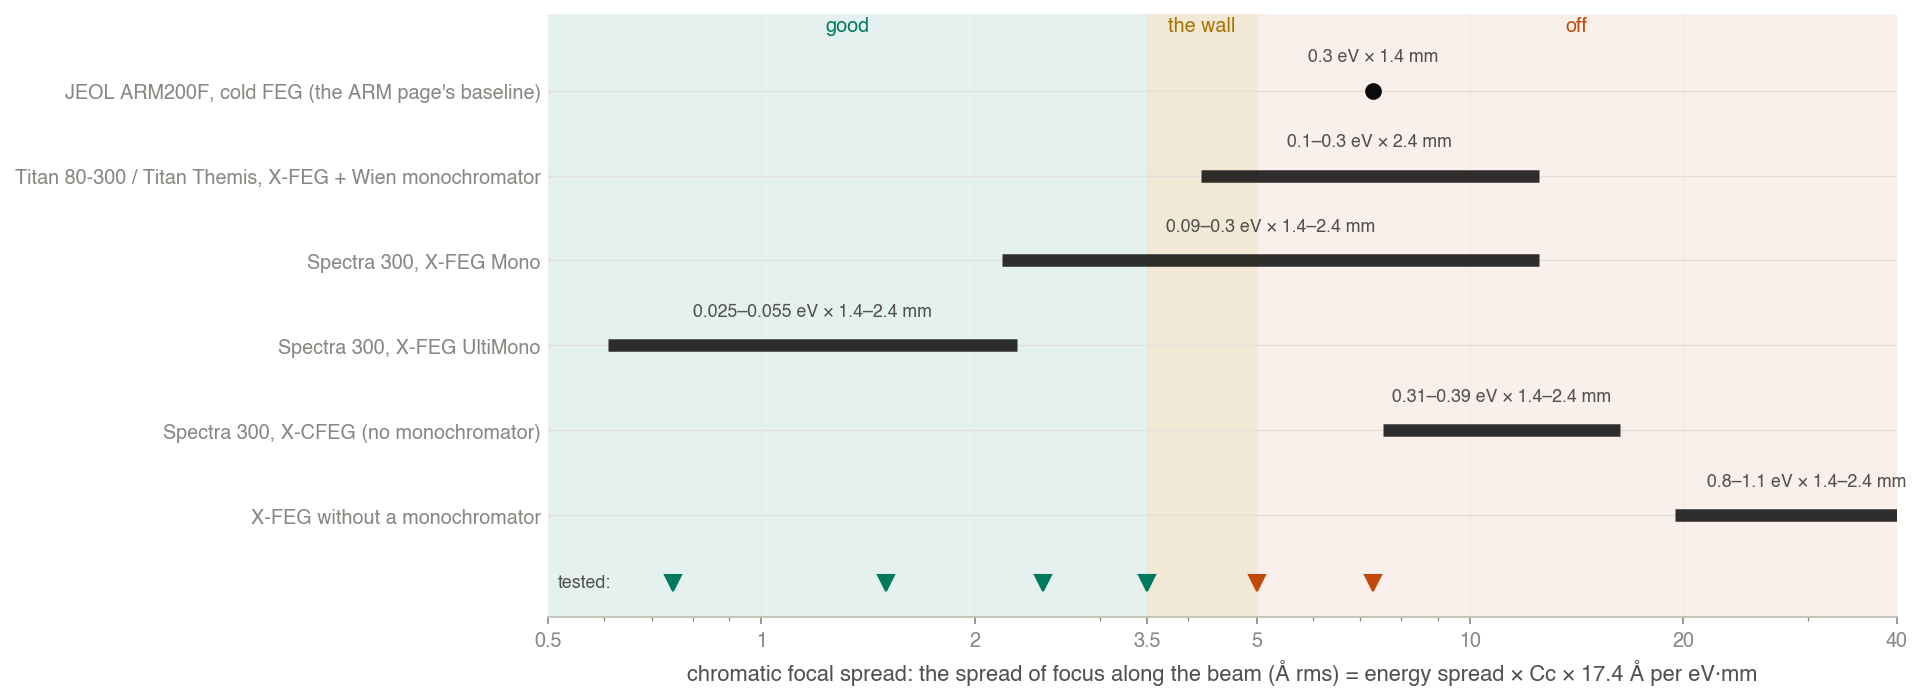
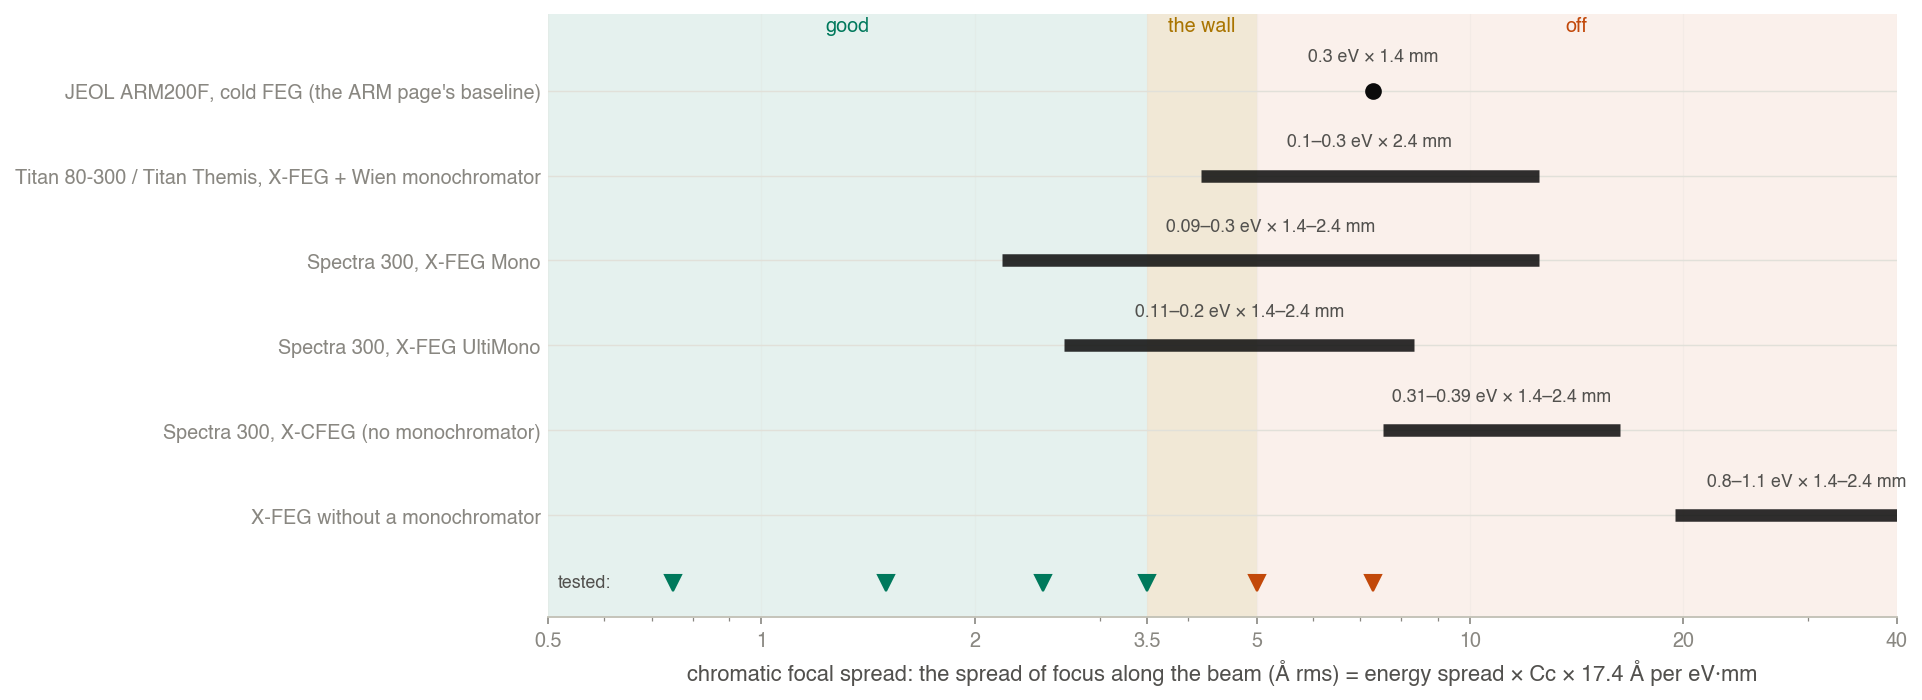
Coherence Wall page v14: Mono vs UltiMono, sites sorted by gun
The how-common table now splits the Spectra 300 by gun (Mono, UltiMono,
monochromated but unstated, X-CFEG or unstated) beside the ARM200F; the Titan is
dropped. The UltiMono's tens of meV are quoted at 30-60 kV; at 300 kV its quoted
figures (110 meV Stanford, < 0.2 eV Michigan) match the Mono's 90 meV, so the page
now treats a monochromated Spectra 300 at ~0.1 eV, either gun, as the target.

Changed region(s): [[0.3122, 0.48, 0.7492, 0.51], [0.3746, 0.42, 0.4995, 0.45], [0.5931, 0.42, 0.6868, 0.45]]

diff --git a/aberration_experiment/page/mono_2026-10-12.html b/aberration_experiment/page/mono_2026-10-12.html
@@ -87,7 +87,9 @@
           monochromator brings the energy spread to about 90 meV in use (<a href="https://www.wems.msm.cam.ac.uk/node/56" target="_blank" rel="noopener">as quoted by Cambridge</a>), about 2.5 Å of chromatic focal spread: inside the limit, where
           the ARM's cold FEG gives 7.3 Å and a Titan's Wien filter 4–12 Å. It is a current, widely installed microscope, not
           a one-off (where they are: §06). And its corrector corrects A5, which the ARM's does not, so keeping the
-          ARM's aberrations is pessimistic for it. The UltiMono does better still, but it is the rarer, high-end option.</td></tr>
+          ARM's aberrations is pessimistic for it. The UltiMono's tiny energy spreads are quoted at 30–60 kV; at 300 kV its quoted figures
+          (<a href="https://snsf.stanford.edu/facilities/eim/spectra" target="_blank" rel="noopener">110 meV at Stanford</a>, <a href="https://mc2.engin.umich.edu/techniques/thermo-fisher-spectra-300-probe-corrected-s-tem/" target="_blank" rel="noopener">< 0.2 eV at Michigan</a>) are no better than the Mono's 90 meV, so the result holds for
+          either.</td></tr>
         <tr><td>Then</td><td class="wrap">We put the physics back at the Spectra Mono's setting, one piece at a time (§07): the
           source size (A), atomic vibration cooled to 100 K and 20 K (B; room temperature is already ruled out), a
           probe found from the data rather than given (C), and next, shot noise (D).</td></tr>
@@ -120,7 +122,7 @@
         the points are rerunning (§05).</li>
     </ol>
     <p><b>The microscope it points to</b>: in energy spread the Spectra 300 X-FEG Mono is inside at the <a href="https://www.wems.msm.cam.ac.uk/node/56" target="_blank" rel="noopener">90 meV quoted in use</a>
-      (not at its <a href="https://www.utwente.nl/en/mesaplus/infrastructure/nanolab/analysis/facilities/tem/doc-1-spectra-300-stem-datasheet-ds0297.pdf" target="_blank" rel="noopener">0.2–0.3 eV specification</a>); the UltiMono with margin; a Titan's Wien filter only to the edge, at its best; the
+      (not at its <a href="https://www.utwente.nl/en/mesaplus/infrastructure/nanolab/analysis/facilities/tem/doc-1-spectra-300-stem-datasheet-ds0297.pdf" target="_blank" rel="noopener">0.2–0.3 eV specification</a>); the UltiMono about the same at 300 kV (its tens of meV are quoted at 30–60 kV); a Titan's Wien filter only to the edge, at its best; the
       ARM's cold FEG and unmonochromated guns do not (§06).</p>
     <p><b>The physics put back, at the Spectra Mono's setting</b> (2.5 Å of chromatic focal spread)</p>
     <ol class="found" start="5">
@@ -277,10 +279,12 @@
     <div class="sec-head"><span class="sec-num">06</span><h2>Which microscope: the Spectra 300 X-FEG Mono</h2></div>
     <div class="call qa ok">
       <span class="k">Question</span><span class="v">Which microscopes give a chromatic focal spread inside the limit of §02?</span>
-      <span class="k">Answer</span><span class="v">The UltiMono, with margin. The Mono, at the 90 meV <a href="https://www.wems.msm.cam.ac.uk/node/56" target="_blank" rel="noopener">Cambridge quotes</a>
-      (if C<sub>c</sub> ≤ about 2 mm), but not at its <a href="https://www.utwente.nl/en/mesaplus/infrastructure/nanolab/analysis/facilities/tem/doc-1-spectra-300-stem-datasheet-ds0297.pdf" target="_blank" rel="noopener">0.2–0.3 eV specification</a>. A Titan's Wien monochromator reaches the
-      band between good and off only at its best (~0.1 eV). The ARM's cold FEG or an unmonochromated X-FEG, no.</span>
-      <span class="k">Our choice</span><span class="v">The Spectra 300 X-FEG Mono: inside on chromatic focal spread, current and widely
+      <span class="k">Answer</span><span class="v">The Mono, at the 90 meV <a href="https://www.wems.msm.cam.ac.uk/node/56" target="_blank" rel="noopener">Cambridge quotes</a>
+      (if C<sub>c</sub> ≤ about 2 mm), but not at its <a href="https://www.utwente.nl/en/mesaplus/infrastructure/nanolab/analysis/facilities/tem/doc-1-spectra-300-stem-datasheet-ds0297.pdf" target="_blank" rel="noopener">0.2–0.3 eV specification</a>. The UltiMono about the same at 300 kV: its quoted 300 kV figures are
+      <a href="https://snsf.stanford.edu/facilities/eim/spectra" target="_blank" rel="noopener">110 meV (Stanford)</a> and <a href="https://mc2.engin.umich.edu/techniques/thermo-fisher-spectra-300-probe-corrected-s-tem/" target="_blank" rel="noopener">< 0.2 eV (Michigan)</a>; its tens of meV are quoted at 30–60 kV. A Titan's Wien
+      monochromator reaches the band between good and off only at its best (~0.1 eV). The ARM's cold FEG or an unmonochromated X-FEG, no.</span>
+      <span class="k">Our choice</span><span class="v">A monochromated Spectra 300, the X-FEG Mono or the UltiMono, at about 0.1 eV:
+      inside on chromatic focal spread, current and widely
       installed, and with a corrector that corrects A5, so the ARM aberrations we keep are pessimistic for it. Its weak
       point is the source: a Schottky X-FEG is less bright than a cold FEG and the monochromator cuts the brightness further,
       so a small source at the sample costs probe current (below). That is why the source size is the first piece of
@@ -304,10 +308,11 @@
       <li><b>Source size</b> is not on this axis: it has its own figure below.</li>
     </ul>
     <h3>How common each is</h3>
-    <p>The point of the Spectra 300 is that it is not a one-off. Below, the sites we could find with a public page for each
-      family of microscope on this page. The
-      Spectra 300 is the newest of the three, so its count is the smallest, but it is already in two UK and several European facilities, and at least seven of the sites found run it with a
-      monochromator.</p>
+    <p>The point of the Spectra 300 is that it is not a one-off. Below, the sites we could find with a public page, sorted by
+      the gun each names. In Europe the UltiMono turns up more often than the Mono among the pages that say: Imperial,
+      Barcelona and (by its 60 kV figure) Jülich, against Cambridge's Mono; Stuttgart's is monochromated without saying which.
+      These are small numbers and lower bounds. At 300 kV the two quote similar energy spreads, so for this experiment either
+      will do, and together they make at least five monochromated Spectra 300s in Europe, two of them in the UK.</p>
     {{FRAG_INSTALLS}}
 
     <h3>And the source size at the sample</h3>
@@ -347,7 +352,7 @@
           spread of <b>focus along the beam</b> (Å rms); the source size in each row is a <b>sideways blur at the sample</b>
           (Å FWHM), which on the Mono is set by the probe current (§06), not by the monochromator. Top: the chromatic focal
           spread the Spectra 300 monochromators give
-          (from §06): the Mono at the 90 meV quoted in use and at its 0.2–0.3 eV specification, and the UltiMono. Below: every
+          (from §06): the Mono at the 90 meV quoted in use and at its 0.2–0.3 eV specification, and the UltiMono as quoted at 300 kV. Below: every
           run with the source and vibration put back, at its chromatic focal spread, one row per setting. Square colour: the verdict
           (green good, amber okay, red off). Hollow: the true probe held fixed; filled: probe modes. Numbers: Pb / Ti % at
           the right depth. Grey: running. Background: the good, wall and off bands of §02, for chromatic focal spread alone. Where a
@@ -399,7 +404,7 @@
       <div><span class="lg-t">Chromatic chromatic focal spread costs more depth than source size</span><span class="chip c-warn">partly</span>
         <span class="lg-d">At equal coherence the chromatic focal spread is worse; a likely reason: focus is what multislice reads as depth.</span></div>
       <div><span class="lg-t">A widespread monochromated instrument gets past the wall</span><span class="chip c-warn">partly</span>
-        <span class="lg-d">In chromatic focal spread: the UltiMono yes; the Mono at the 90 meV quoted in use, not at its 0.2–0.3 eV
+        <span class="lg-d">In chromatic focal spread: the Mono at the 90 meV quoted in use and the UltiMono at its quoted 300 kV figures, not at its 0.2–0.3 eV
           specification; the Titan Wien only to the edge, at its best. The source size and ripple decide it (§06).</span></div>
       <div><span class="lg-t">Cooling restores the depth</span><span class="chip c-warn">partly</span>
         <span class="lg-d">For Pb, with probe modes: 51 % at 100 K, 70 % at 20 K. Not for Ti, at either. Room-temperature

diff --git a/analysis/make_mono_page.py b/analysis/make_mono_page.py
@@ -287,7 +287,7 @@ def fig_where(recs, man):
     mono, ulti = ins["Spectra 300, X-FEG Mono"], ins["Spectra 300, X-FEG UltiMono"]
     bars = [("Spectra 300, X-FEG Mono, at the 90 meV quoted in use", mono["dE"][0], mono["dE"][0], mono["cc"]),
             ("Spectra 300, X-FEG Mono, at its 0.2–0.3 eV specification", mono["spec"][0], mono["spec"][1], mono["cc"]),
-            ("Spectra 300, X-FEG UltiMono", ulti["dE"][0], ulti["dE"][1], ulti["cc"])]
+            ("Spectra 300, X-FEG UltiMono, as quoted at 300 kV", ulti["dE"][0], ulti["dE"][1], ulti["cc"])]
     lo, hi = -0.45, 6.0
     fig, (at, ab) = plt.subplots(2, 1, figsize=(11.6, 6.4), sharex=True, gridspec_kw=dict(height_ratios=[1.25, 3.4], hspace=.08))
     for ax in (at, ab):
@@ -666,10 +666,8 @@ def installs_table(man):
                 where.append(f"<b>{lab}:</b> " + "; ".join(items))
         trs.append(f"<tr><td class='wrap'><b>{html.escape(model)}</b></td><td>≥ {uk}</td><td>≥ {eu}</td><td>≥ {len(rs)}</td>"
                    f"<td class='wrap'>{'<br>'.join(where)}</td></tr>")
-    fei = man["sources"]["fei2006"]
     return arm.table(["microscope", "UK", "Europe, incl. UK", "world", "where (each links to the facility's page)"], trs,
-                     html.escape(man["installs_note"]) + f' For scale, FEI reported more than 30 Titan orders within a year of '
-                     f'its 2005 launch (<a href="{html.escape(fei["url"])}" target="_blank" rel="noopener">{html.escape(fei["short"])}</a>).')
+                     html.escape(man["installs_note"]))
 
 
 def instruments_table(man, recs):

diff --git a/aberration_experiment/page/MONO_PAGE.md b/aberration_experiment/page/MONO_PAGE.md
@@ -1,6 +1,11 @@
 # The Coherence Wall page — how to fill it in and republish
 
 PUBLISHED: https://claude.ai/artifact/B7ep8BpAMVdKvrnXywACq3
+- version 14, 2026-10-21: installs sorted by gun (Mono, UltiMono, monochromated-unstated, X-CFEG/unstated; ARM for
+  comparison; Titan dropped, the user: no better than the ARM). The UltiMono's 25-55 meV was a 30-60 kV figure: at 300 kV
+  the quoted numbers are 110 meV (Stanford) and < 0.2 eV (Michigan), so its bar is now 0.11-0.2 eV and the page says the
+  Mono and UltiMono are about the same at 300 kV; the target is "a monochromated Spectra 300 at ~0.1 eV". Europe: >= 5
+  monochromated Spectra 300s (Cambridge Mono; Imperial, Barcelona, Jülich UltiMono; Stuttgart unstated).
 - version 13, 2026-10-21: every outside number linked. mono_results.json gains "sources" (cite, url, what it
   supports; rendered as section C by `sources_list`, inline by `src_link`, per instrument via "refs") and "installs"
   (model, region uk/eu/row, site, url, note; `installs_table` in §06, "How common each is": lower bounds from public
